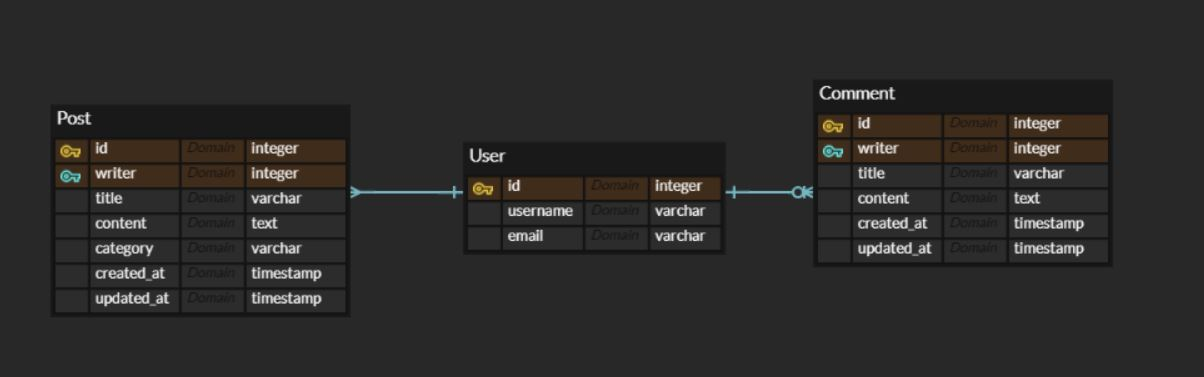
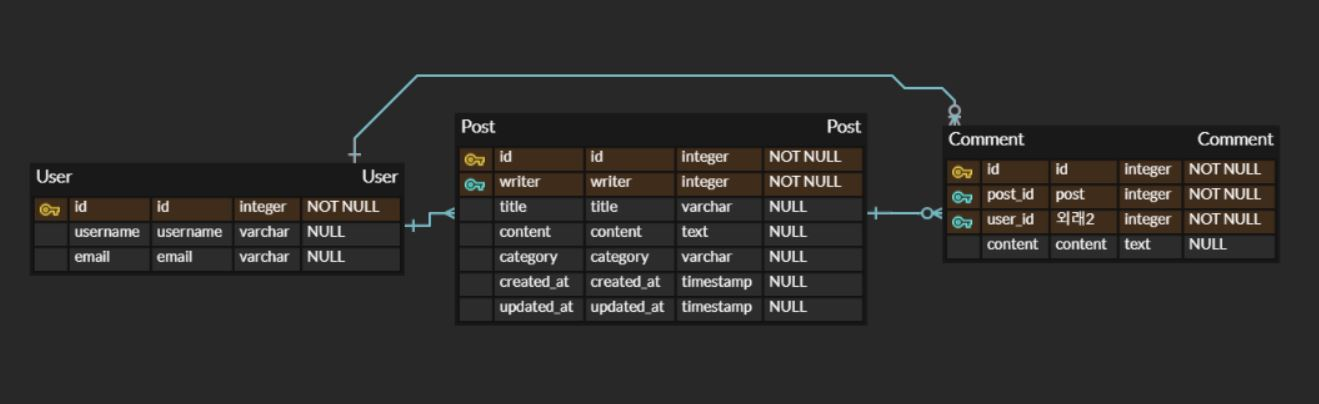
docs : ERD Model 수정 fix(Comment) : 관계에 따른 fk 수정

Changed region(s): [[0.0307, 0.2042, 0.9834, 0.817], [0.3073, 0.1751, 0.6761, 0.2042], [0.2766, 0.2334, 0.3073, 0.321]]

diff --git a/posts/migrations/0001_initial.py b/posts/migrations/0001_initial.py
@@ -1,6 +1,8 @@
-# Generated by Django 4.2.11 on 2024-03-27 11:27
+# Generated by Django 4.2.11 on 2024-04-02 16:27
 
+from django.conf import settings
 from django.db import migrations, models
+import django.db.models.deletion
 
 
 class Migration(migrations.Migration):
@@ -8,6 +10,7 @@ class Migration(migrations.Migration):
     initial = True
 
     dependencies = [
+        migrations.swappable_dependency(settings.AUTH_USER_MODEL),
     ]
 
     operations = [
@@ -25,5 +28,14 @@ class Migration(migrations.Migration):
             options={
                 'abstract': False,
             },
+        ),
+        migrations.CreateModel(
+            name='Comment',
+            fields=[
+                ('id', models.AutoField(primary_key=True, serialize=False)),
+                ('content', models.TextField(verbose_name='내용')),
+                ('post_id', models.ForeignKey(on_delete=django.db.models.deletion.CASCADE, related_name='post', to='posts.post')),
+                ('user_id', models.ForeignKey(on_delete=django.db.models.deletion.CASCADE, related_name='user', to=settings.AUTH_USER_MODEL)),
+            ],
         ),
     ]

diff --git a/posts/models.py b/posts/models.py
@@ -22,8 +22,8 @@ class Post(BaseModel):
     writer = models.CharField(verbose_name="작성자", max_length=10)
     category = models.CharField(choices=CHOICES, max_length=20)
 
-class Comment(BaseModel):
+class Comment(models.Model):
     id = models.AutoField(primary_key=True)
-    title = models.CharField(verbose_name="제목", max_length=20)    #CharField는 max_length 반드시 넣어줘야함.
+    post_id = models.ForeignKey('Post', related_name = "post", on_delete=models.CASCADE)
+    user_id = models.ForeignKey('accounts.User', related_name = "user", on_delete=models.CASCADE)
     content = models.TextField(verbose_name="내용")
-    writer = models.CharField(verbose_name="작성자", max_length=10)

diff --git a/posts/views.py b/posts/views.py
@@ -10,7 +10,7 @@ def hello_world(request):
     if request.method == "GET":
         return JsonResponse({
             'status' : 200,
-            'data' : "Hello lielion-12th!"
+            'data' : "Hello likelion-12th!"
         })
     
 def index(request):
